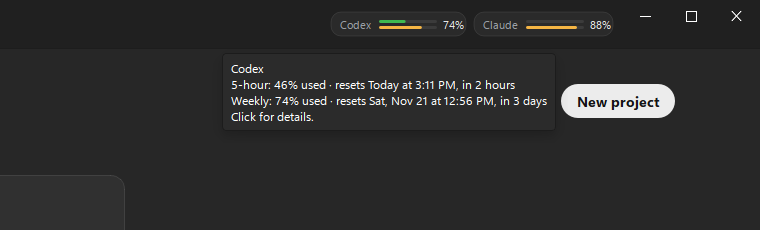
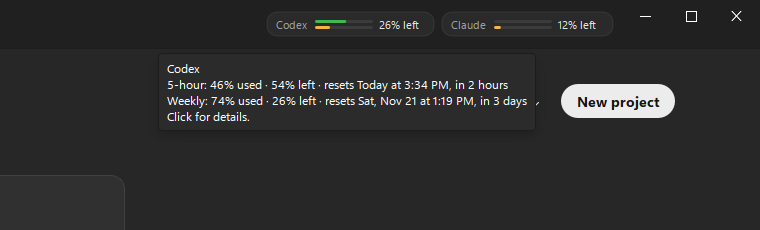
Usage: show percent left for every provider
- Window.remaining_pct / used_pct normalize both conventions; providers
  set used_percent (Codex used_percent, Claude utilization: both are
  consumed) or left_percent (a source that counts down).
- Bars fill with what is left; labels say "69% left"; tooltips show
  "31% used · 69% left" and the reset time; the pill shows the tightest
  window's percent left.
- Colors by percent left: green > 30%, amber 10-30%, red < 10%.
- History is stored as percent left (new key).
- Tests for both directions; screenshots and README updated.

Changed region(s): [[0.2118, 0.2739, 0.7263, 0.4565], [0.3632, 0.0609, 0.8171, 0.1522], [0.2118, 0.487, 0.4237, 0.5478]]

diff --git a/tests/test_usage.py b/tests/test_usage.py
@@ -56,7 +56,8 @@ def test_codex_usage_is_exact_from_rollout(db, tmp_path):
     u = CodexUsage().read(db)
     five, week = u.window("five_hour"), u.window("weekly")
     assert five.used_percent == 72.0 and five.exact and five.label == "5-hour"
-    assert week.used_percent == 33.0 and week.exact
+    assert five.remaining_pct == 28.0 and five.used_pct == 72.0  # Codex used_percent counts UP (consumed)
+    assert week.used_percent == 33.0 and week.remaining_pct == 67.0 and week.exact
     assert five.resets_at > time.time()
     assert "exact" in u.source
 
@@ -65,7 +66,8 @@ def test_codex_window_already_reset_reads_zero(db, tmp_path):
     from orchestrator.core.usage import CodexUsage
 
     write_rollout(tmp_path, primary=95.0, resets=time.time() - 10)
-    assert CodexUsage().read(db).window("five_hour").used_percent == 0.0
+    w = CodexUsage().read(db).window("five_hour")
+    assert w.used_percent == 0.0 and w.remaining_pct == 100.0
 
 
 def test_codex_no_logs(db):
@@ -103,6 +105,7 @@ def test_claude_rate_limit_event_maps_and_records(db, tmp_path):
     u = ClaudeUsage().read(db)
     five, week = u.window("five_hour"), u.window("weekly")
     assert five.exact and five.used_percent == 81.0 and five.status == "allowed_warning"
+    assert five.remaining_pct == 19.0  # Claude utilization is the fraction consumed, so left = 100 - 81
     assert "1.8k" in five.estimate or "2k" in five.estimate
     assert not week.exact and week.used_percent is None and "tokens" in week.estimate
 
@@ -117,13 +120,28 @@ def test_claude_estimate_only(db):
 def test_level_and_history(db):
     from orchestrator.core.usage import ProviderUsage, Window, history, level, record_history
 
-    assert [level(x) for x in (None, 10, 70, 89.9, 90)] == ["unknown", "green", "amber", "amber", "red"]
+    # level() takes percent LEFT: green > 30, amber 10-30, red < 10
+    assert [level(x) for x in (None, 90, 30.1, 30, 10, 9.9, 0)] == \
+        ["unknown", "green", "green", "amber", "amber", "red", "red"]
     u = ProviderUsage("codex", "Codex", [Window("five_hour", "5-hour", 10.0, exact=True)])
     record_history(db, [u])
     record_history(db, [u])  # unchanged: not repeated
     u.windows[0].used_percent = 20.0
     record_history(db, [u])
-    assert [h["v"] for h in history(db, "codex", "five_hour")] == [10.0, 20.0]
+    assert [h["v"] for h in history(db, "codex", "five_hour")] == [90.0, 80.0]  # history is percent left
+
+
+def test_both_directions_normalize_to_left():
+    from orchestrator.core.usage import Window, tightest
+
+    up = Window("five_hour", "5-hour", used_percent=31.0)  # a source that counts up (consumed)
+    down = Window("weekly", "Weekly", left_percent=69.0)  # a source that counts down (remaining)
+    assert up.remaining_pct == down.remaining_pct == 69.0
+    assert up.used_pct == down.used_pct == 31.0
+    assert Window("x", "X").remaining_pct is None
+    assert Window("x", "X", used_percent=130).remaining_pct == 0.0
+    assert tightest([up, Window("weekly", "Weekly", left_percent=12.0)]).remaining_pct == 12.0
+    assert tightest([Window("x", "X")]) is None
 
 
 def test_custom_provider_registers(db):
@@ -150,9 +168,9 @@ def test_usage_bar_and_page(qapp, db, tmp_path):
     bar = UsageBar(db)
     bar.refresh()  # no running loop: reads synchronously
     pill = bar.pills["codex"]
-    assert pill.usage.window("five_hour").used_percent == 92.0
+    assert pill.usage.window("five_hour").remaining_pct == 8.0
     tip = tooltip_for(pill.usage)
-    assert "5-hour: 92% used" in tip and "resets" in tip and "Weekly: 40% used" in tip
+    assert "5-hour: 92% used · 8% left" in tip and "resets" in tip and "Weekly: 40% used · 60% left" in tip
     hits = []
     bar.openUsage.connect(hits.append)
     from PySide6.QtCore import QPointF, Qt
@@ -166,10 +184,12 @@ def test_usage_bar_and_page(qapp, db, tmp_path):
     page = UsagePage(db, bar)
     page.resize(900, 700)
     page.render()
-    from qfluentwidgets import StrongBodyLabel
+    from qfluentwidgets import BodyLabel, StrongBodyLabel
 
     names = [w.text() for w in page.widget().findChildren(StrongBodyLabel)]
     assert "Codex" in names and "Claude" in names and "5-hour" in names
+    lefts = [w.text() for w in page.widget().findChildren(BodyLabel) if w.objectName() == "leftLabel"]
+    assert "8% left" in lefts and "60% left" in lefts and not any("used" in t for t in lefts)
 
 
 def test_main_window_has_usage_bar(qapp, db, tmp_path):
@@ -197,4 +217,4 @@ def test_read_all_from_snapshot_on_worker_thread(db):
     t.start()
     t.join()
     claude = next(u for u in out if u.provider == "claude")
-    assert claude.window("weekly").used_percent == 50.0 and not claude.note.startswith("Could not")
+    assert claude.window("weekly").remaining_pct == 50.0 and not claude.note.startswith("Could not")

diff --git a/orchestrator/ui/usage_view.py b/orchestrator/ui/usage_view.py
@@ -46,10 +46,10 @@ def _when(ts: float | None) -> str:
 
 
 def window_text(w: U.Window) -> str:
-    if w.used_percent is None:
+    if w.remaining_pct is None:
         head = f"{w.label}: no percentage reported"
     else:
-        head = f"{w.label}: {w.used_percent:.0f}% used" + ("" if w.exact else " (estimate)")
+        head = f"{w.label}: {w.used_pct:.0f}% used · {w.remaining_pct:.0f}% left" + ("" if w.exact else " (estimate)")
     if w.resets_at:
         head += f" · resets {_when(w.resets_at)}"
     if w.status == "allowed_warning":
@@ -90,7 +90,8 @@ class UsagePill(QWidget):
         f.setPointSizeF(8.5)
         from PySide6.QtGui import QFontMetrics
 
-        return QSize(QFontMetrics(f).horizontalAdvance(self.name) + 18 + 58 + 30, 30)
+        fm = QFontMetrics(f)
+        return QSize(fm.horizontalAdvance(self.name) + 18 + 58 + 8 + fm.horizontalAdvance("100% left") + 10, 30)
 
     def set_usage(self, u: U.ProviderUsage) -> None:
         self.usage = u
@@ -139,16 +140,17 @@ class UsagePill(QWidget):
             p.setPen(Qt.NoPen)
             p.setBrush(qcolor(pal["border"]))
             p.drawRoundedRect(track, 1.5, 1.5)
-            if w and w.used_percent is not None:
-                col = QColor(LEVEL_COLORS[U.level(w.used_percent)])
+            if w and w.remaining_pct is not None:  # the bar fills with what is LEFT
+                col = QColor(LEVEL_COLORS[U.level(w.remaining_pct)])
                 if not w.exact:
                     col.setAlphaF(0.55)
                 p.setBrush(col)
-                p.drawRoundedRect(QRectF(x, y, max(3.0, bw * min(100.0, w.used_percent) / 100), 3), 1.5, 1.5)
-        known = [w.used_percent for w in windows if w.used_percent is not None]
-        pct = f"{max(known):.0f}%" if known else "—"  # the tighter of the two windows
+                p.drawRoundedRect(QRectF(x, y, max(3.0, bw * w.remaining_pct / 100), 3), 1.5, 1.5)
+        tight = U.tightest(windows)
+        pct = f"{tight.remaining_pct:.0f}% left" if tight else "—"  # what limits you first
         p.setPen(qcolor(pal["text"]))
-        p.drawText(QRectF(x + bw + 6, r.top(), 34, r.height()), Qt.AlignVCenter | Qt.AlignLeft, pct)
+        p.drawText(QRectF(x + bw + 6, r.top(), r.right() - (x + bw + 6) - 4, r.height()),
+                   Qt.AlignVCenter | Qt.AlignLeft, pct)
         p.end()
 
 
@@ -246,7 +248,7 @@ class Spark(QWidget):
             y = r.bottom() - min(100.0, pt["v"]) / 100 * r.height()
             path.moveTo(x, y) if i == 0 else path.lineTo(x, y)
         pen = p.pen()
-        pen.setColor(QColor(LEVEL_COLORS[U.level(self.points[-1]["v"])]))
+        pen.setColor(QColor(LEVEL_COLORS[U.level(self.points[-1]["v"])]))  # samples are percent left
         pen.setWidthF(1.6)
         p.setPen(pen)
         p.drawPath(path)
@@ -270,13 +272,16 @@ class WindowRow(QWidget):
                             " font-size:8pt; background:transparent; }}")
         top.addWidget(badge)
         top.addStretch(1)
-        pct = BodyLabel("—" if w.used_percent is None else f"{w.used_percent:.0f}% used", self)
+        pct = BodyLabel("—" if w.remaining_pct is None else f"{w.remaining_pct:.0f}% left", self)
+        pct.setObjectName("leftLabel")
+        if w.remaining_pct is not None:
+            pct.setToolTip(f"{w.used_pct:.0f}% used · {w.remaining_pct:.0f}% left")
         top.addWidget(pct)
         lay.addLayout(top)
         bar = QFrame(self)
         bar.setFixedHeight(8)
-        level = U.level(w.used_percent)
-        frac = 0 if w.used_percent is None else max(0.0, min(1.0, w.used_percent / 100))
+        level = U.level(w.remaining_pct)
+        frac = 0 if w.remaining_pct is None else w.remaining_pct / 100
         bar.setStyleSheet(
             "QFrame { border-radius:4px; background: qlineargradient(x1:0, y1:0, x2:1, y2:0, "
             f"stop:0 {LEVEL_COLORS[level]}, stop:{max(0.001, frac):.3f} {LEVEL_COLORS[level]}, "
@@ -325,8 +330,9 @@ class UsagePage(SmoothScrollArea):
         head = QHBoxLayout()
         tcol = QVBoxLayout()
         tcol.addWidget(TitleLabel("Usage", body))
-        sub = CaptionLabel("Plan limits per provider: the 5-hour window and the weekly window. Green under 70%, "
-                           "amber from 70%, red from 90%.", body)
+        sub = CaptionLabel("Plan limits per provider: the 5-hour window and the weekly window, shown as percent "
+                           "left for every provider. Bars fill with what is left: green above 30% left, amber "
+                           "10–30%, red under 10%.", body)
         sub.setWordWrap(True)
         sub.setStyleSheet(f"color:{palette()['muted']};")
         tcol.addWidget(sub)

diff --git a/orchestrator/core/usage.py b/orchestrator/core/usage.py
@@ -30,14 +30,32 @@ WEEK = 7 * 86400
 
 @dataclass
 class Window:
+    """One limit window. A provider fills in whichever its source reports: ``used_percent`` (Codex
+    ``used_percent``, Claude ``utilization``) or ``left_percent`` (a source that counts down). The UI only reads
+    ``remaining_pct`` / ``used_pct``, so every provider shows the same convention: percent left."""
+
     key: str  # five_hour | weekly
     label: str  # "5-hour" | "Weekly"
-    used_percent: float | None = None  # 0-100, None when unknown
+    used_percent: float | None = None  # 0-100 consumed, None when unknown
     resets_at: float | None = None
     exact: bool = False
     status: str = ""  # allowed | allowed_warning | rejected (Claude) or ""
     estimate: str = ""  # e.g. "≈ 1.2M tokens in this window (local logs)"
     updated_at: float | None = None
+    left_percent: float | None = None  # 0-100 remaining, for sources that report what is left
+
+    @property
+    def remaining_pct(self) -> float | None:
+        if self.left_percent is not None:
+            return max(0.0, min(100.0, float(self.left_percent)))
+        if self.used_percent is not None:
+            return max(0.0, min(100.0, 100.0 - float(self.used_percent)))
+        return None
+
+    @property
+    def used_pct(self) -> float | None:
+        left = self.remaining_pct
+        return None if left is None else 100.0 - left
 
 
 @dataclass
@@ -106,11 +124,17 @@ def read_all(db: Database | SettingsSnapshot) -> list[ProviderUsage]:
     return out
 
 
-def level(pct: float | None) -> str:
-    """green / amber / red for a used percentage."""
-    if pct is None:
+def level(left: float | None) -> str:
+    """green / amber / red for a percent LEFT: green above 30% left, amber 10-30%, red under 10%."""
+    if left is None:
         return "unknown"
-    return "red" if pct >= 90 else "amber" if pct >= 70 else "green"
+    return "red" if left < 10 else "amber" if left <= 30 else "green"
+
+
+def tightest(windows: list[Window]) -> Window | None:
+    """The window with the least left (what limits you first)."""
+    known = [w for w in windows if w.remaining_pct is not None]
+    return min(known, key=lambda w: w.remaining_pct) if known else None
 
 
 # ------------------------------------------------------------------ Codex (exact)
@@ -322,23 +346,27 @@ register(ClaudeUsage())
 
 # ------------------------------------------------------------------ history
 
+HISTORY_KEY = "usage.history.left"  # samples of percent LEFT
+
+
 def record_history(db: Database, items: list[ProviderUsage]) -> None:
-    """Keep a small history of percentages (one sample per provider/window when it changes, max 500)."""
-    hist = list(db.get_setting("usage.history") or [])
+    """Keep a small history of percent left (one sample per provider/window when it changes, max 500)."""
+    hist = list(db.get_setting(HISTORY_KEY) or [])
     last = {(h["p"], h["w"]): h for h in hist}
     now = time.time()
     for u in items:
         for w in u.windows:
-            if w.used_percent is None:
+            left = w.remaining_pct
+            if left is None:
                 continue
             prev = last.get((u.provider, w.key))
-            if prev and prev["v"] == w.used_percent and now - prev["t"] < 3600:
+            if prev and prev["v"] == left and now - prev["t"] < 3600:
                 continue
-            h = {"p": u.provider, "w": w.key, "v": w.used_percent, "t": now, "r": w.resets_at}
+            h = {"p": u.provider, "w": w.key, "v": left, "t": now, "r": w.resets_at}
             hist.append(h)
             last[(u.provider, w.key)] = h
-    db.set_setting("usage.history", hist[-500:])
+    db.set_setting(HISTORY_KEY, hist[-500:])
 
 
 def history(db: Database, provider: str, window: str) -> list[dict]:
-    return [h for h in db.get_setting("usage.history") or [] if h["p"] == provider and h["w"] == window]
+    return [h for h in db.get_setting(HISTORY_KEY) or [] if h["p"] == provider and h["w"] == window]

diff --git a/scripts/shot_usage.py b/scripts/shot_usage.py
@@ -81,10 +81,10 @@ def main() -> int:
     hist = []
     for i, (c5, cw, aw) in enumerate([(12, 60, 80), (20, 63, 82), (31, 66, 84), (38, 70, 86), (46, 74, 88)]):
         t = now - (5 - i) * 3600
-        hist += [{"p": "codex", "w": "five_hour", "v": float(c5), "t": t, "r": None},
-                 {"p": "codex", "w": "weekly", "v": float(cw), "t": t, "r": None},
-                 {"p": "claude", "w": "weekly", "v": float(aw), "t": t, "r": None}]
-    db.set_setting("usage.history", hist)
+        hist += [{"p": "codex", "w": "five_hour", "v": 100.0 - c5, "t": t, "r": None},
+                 {"p": "codex", "w": "weekly", "v": 100.0 - cw, "t": t, "r": None},
+                 {"p": "claude", "w": "weekly", "v": 100.0 - aw, "t": t, "r": None}]
+    db.set_setting(U.HISTORY_KEY, hist)  # percent left
     mgr = SessionManager(db)
     win = MainWindow(db, mgr, _app_icon())
     win.setMicaEffectEnabled(False)

diff --git a/README.md b/README.md
@@ -211,8 +211,17 @@ window and to fully ready (every page built and sessions refreshed from disk). O
 ## Usage limits
 
 The title bar shows one pill per provider (Codex, Claude). Each pill has two thin bars: the 5-hour window on top
-and the weekly window below. The number is the tighter of the two. Colors: green under 70%, amber from 70%, red from
-90%. Hover a pill to see the percentages and when each window resets. Click it to open **Usage**, which shows
+and the weekly window below. Every provider uses the same convention, **percent left**: bars fill with what is
+left, and the number is the tightest window's percent left (for example "26% left"). Colors: green above 30% left,
+amber 10–30%, red under 10%. Hover a pill to see "46% used · 54% left" and when each window resets.
+
+Both sources report percent **used**, and the app shows 100 minus that:
+
+- Codex `rate_limits.*.used_percent` is the share consumed. Codex's own `/status` shows the remaining share as
+  "% left".
+- Claude's rate-limit event `utilization` is documented as the "fraction of the rate limit consumed (0.0 - 1.0)".
+
+A new provider fills in `used_percent` or `left_percent` on each `Window`. The UI reads only `remaining_pct`. Click it to open **Usage**, which shows
 details, the source and a small history per window. Usage refreshes every 2 minutes and after each turn.
 
 What is exact and what is an estimate:
